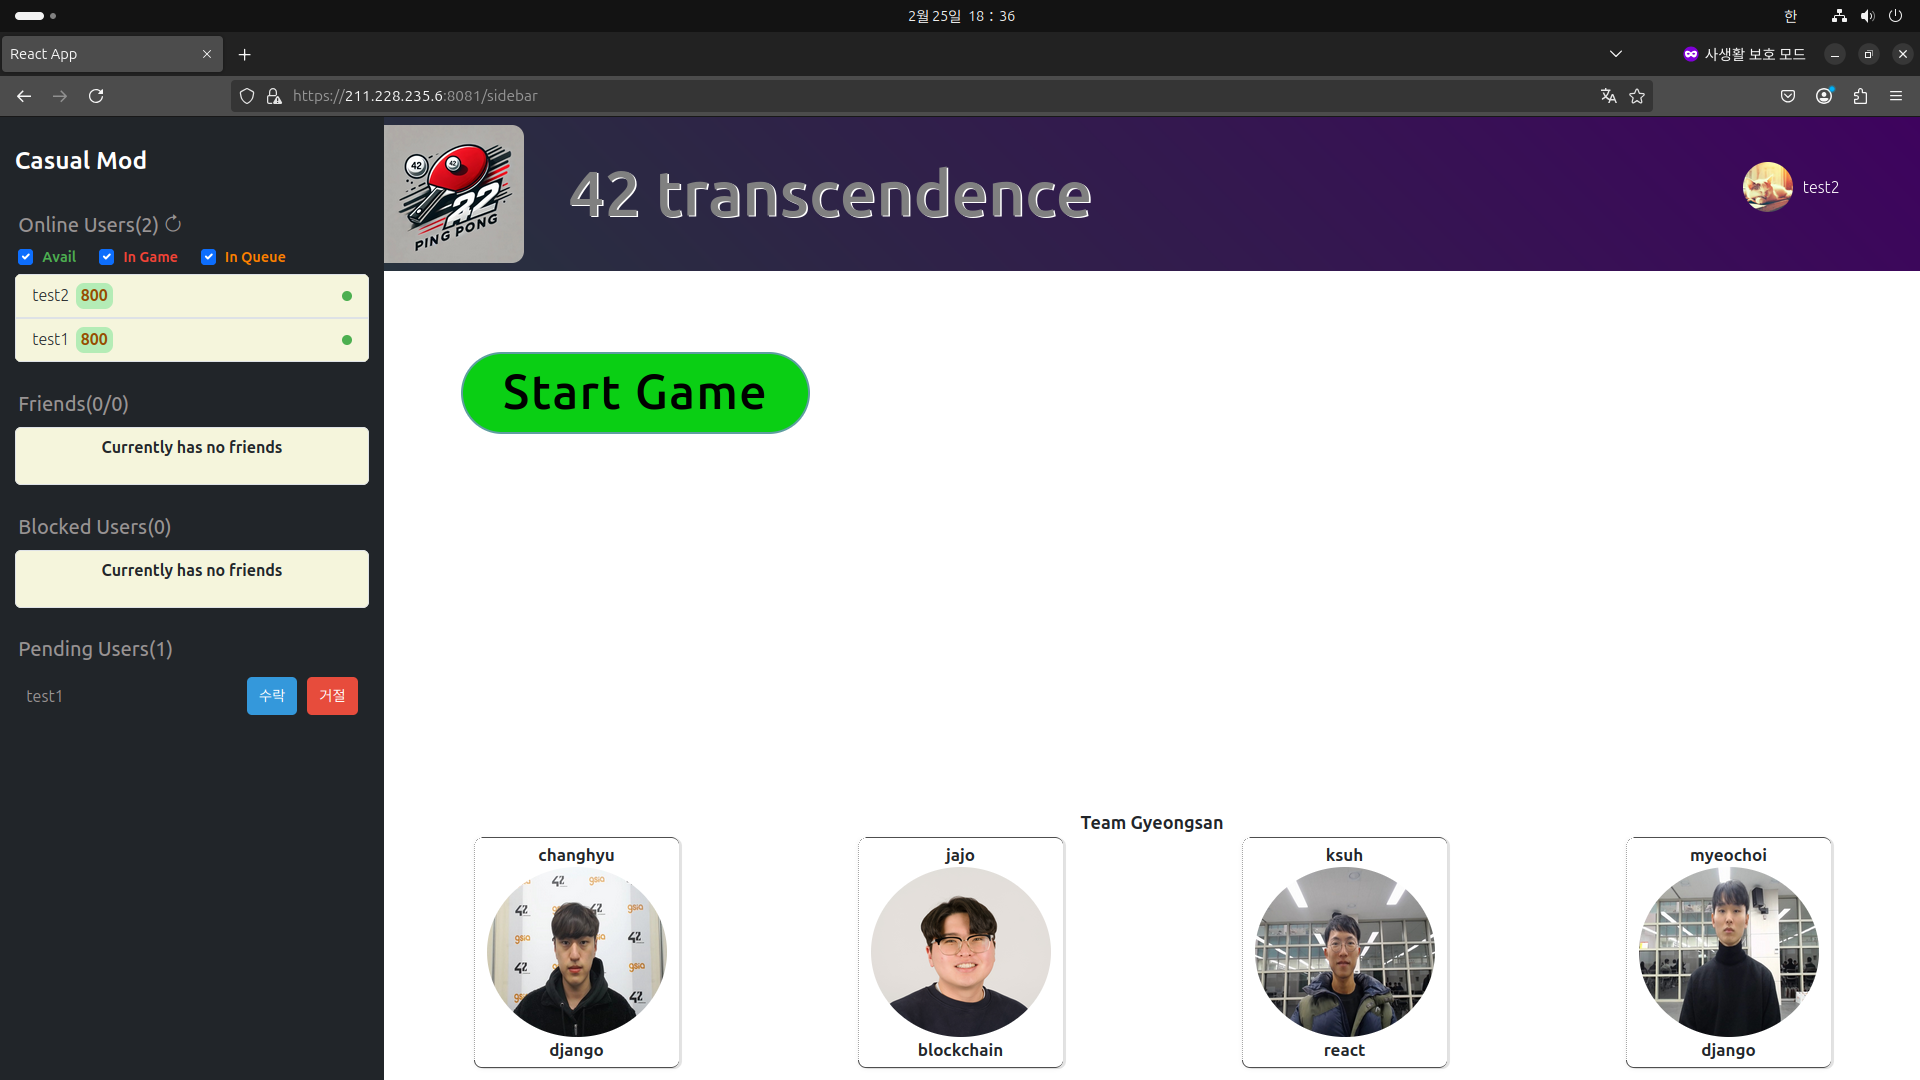
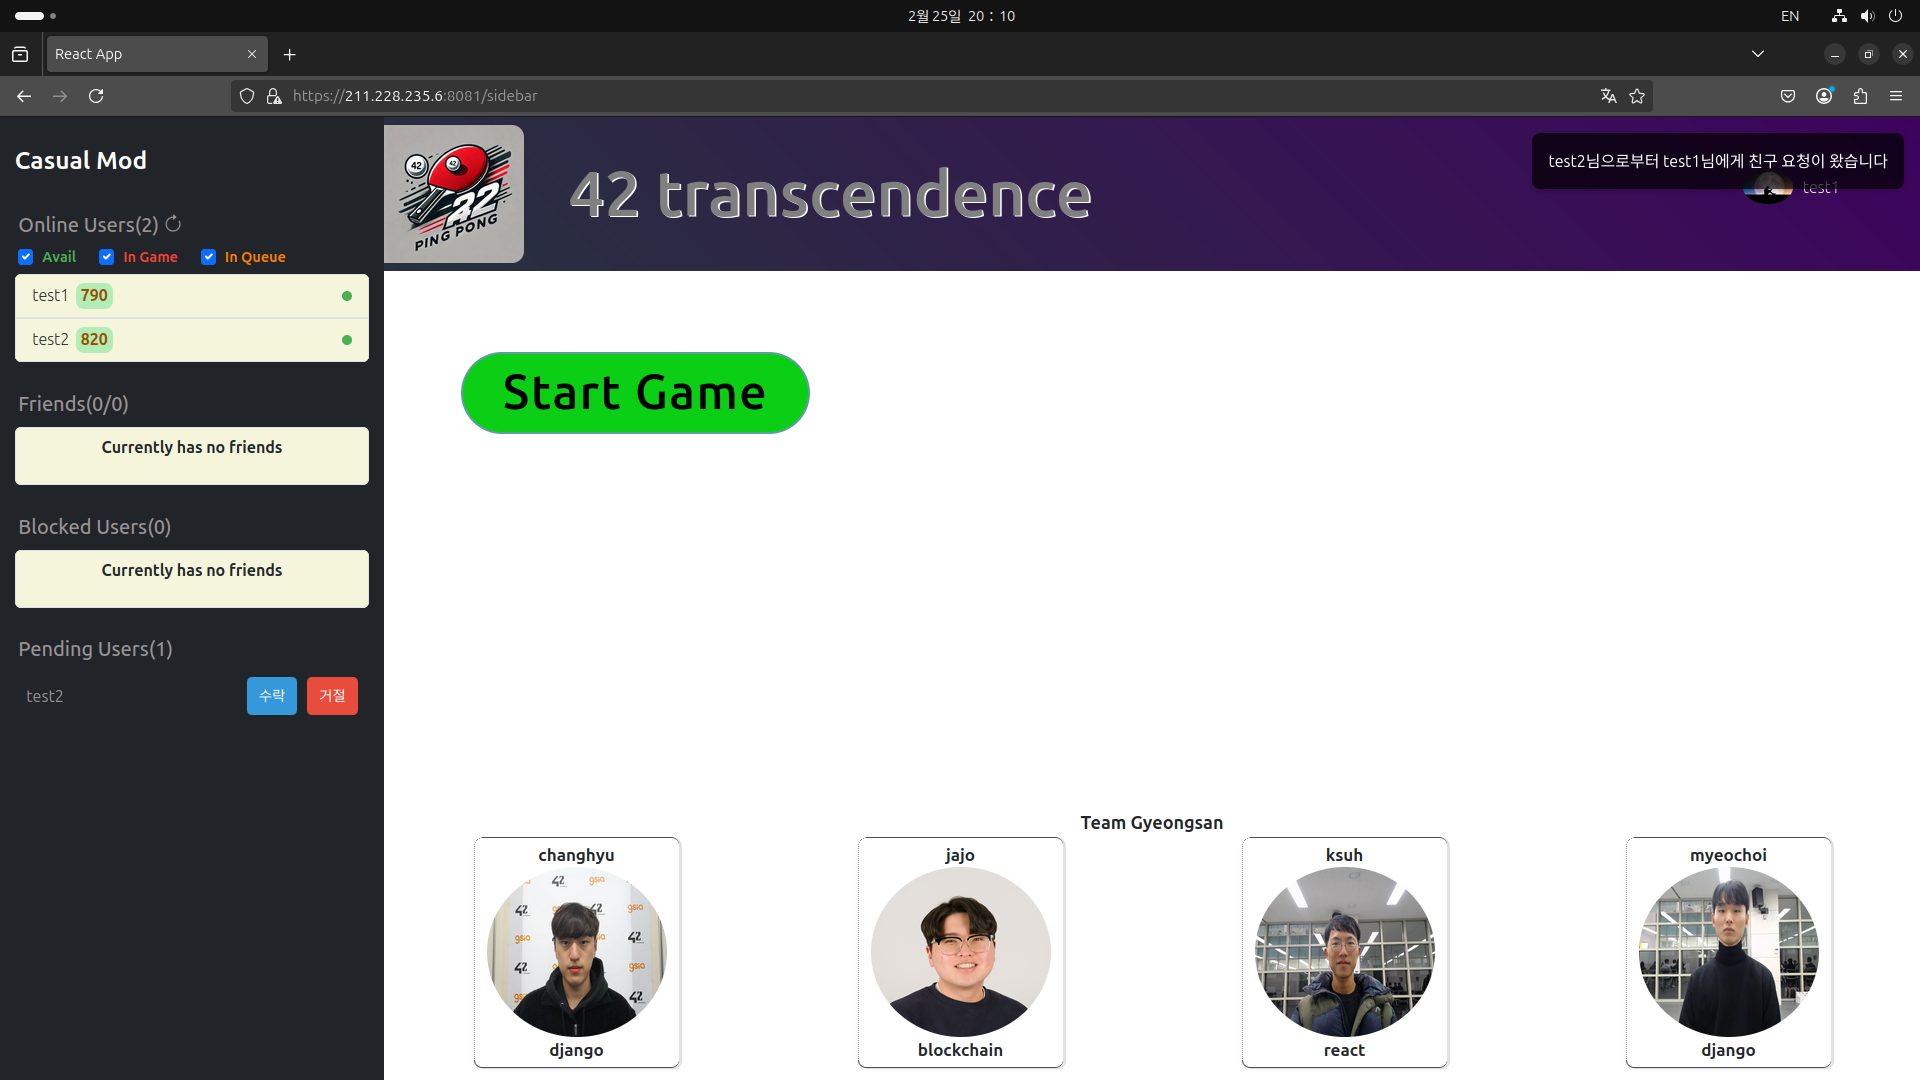
Add

diff --git a/42_Transcendence/README.md b/42_Transcendence/README.md
@@ -36,3 +36,24 @@ Django 기반 웹 Ping Pong 게임 사이트 개발
         </ul>
     </li>
 </ul>
+
+![상대방프로필화면](./image/1.png)
+<ul>
+    <li>상대방 프로필 화면.
+        <ul>
+            <li>선택한 유저의 레이팅, 승패 및 상태 등을 확인할 수 있는 프로필 화면.</li>
+            <li>해당 프로필 화면에서 커스텀 게임 요청 및 친구 추가, 블록, 채팅과 같은 상호작용 가능</li>
+            <li>상대방과의 상호작용은 서버 소켓을 통한 실시간성 확립</li>
+        </ul>
+    </li>
+</ul>
+
+![친구추가](./image/2.png)
+<ul>
+    <li>친구 추가 요청 시 상대방 유저에게 ToastMessage로 알림 후 Pending Users에 응답요청을 생성</li>
+        <ul>
+            <li>수락 시 해당 유저가 Friends 에 추가</li>
+            <li>거절 시 상대방 및 해당 유저 Pending Users 목록에서 요청 제거(따로 알림을 주진 않음)</li>
+        </ul>
+    </li>
+</ul>
